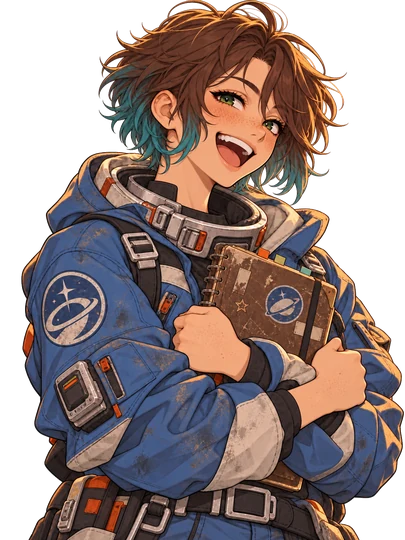
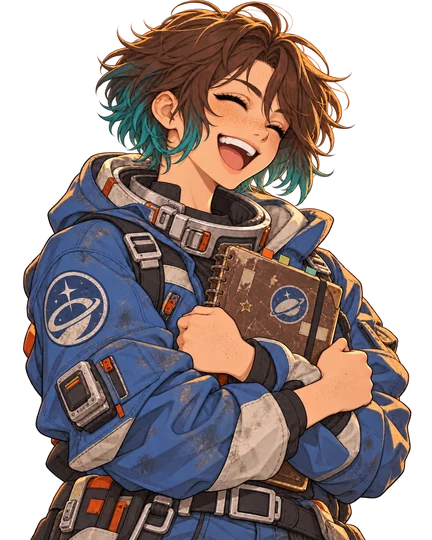
Use the provided transparent Juno portraits
Replaces the programmatic background removal with the transparent
originals; the joy image is shifted 23px left so its body lines up
with the other three expressions.

Claude-Session: https://claude.ai/code/session_01E6DFL9GjyazsKRWf9Q9tqJ

diff --git a/README.md b/README.md
@@ -18,7 +18,7 @@
 - 同一個角色連續說話時只換臉、不重播進場動畫；靜態檢查 S13 確認表情都標在存在、而且有立繪的台詞上
 - 出圖規格：1024×1536、透明背景、四張同一姿勢（預設／生氣／難過／大笑），放進遊戲時縮到高 540
 - 表情表按角色分開寫（`MOOD_TABLES`），S13 會確認標的台詞真的是那個角色說的
-- 目前完成：瑪拉、提歐、朱諾（朱諾的原圖是灰底，用程式去背：從四邊淹沒背景色，再補掉被頭髮圍住的背景小洞）
+- 目前完成：瑪拉、提歐、朱諾（四張要對齊；有一張整體偏移的話，存檔時平移回來，例如朱諾大笑那張往左移 23px）
 
 ## v0.69：多語系
 
